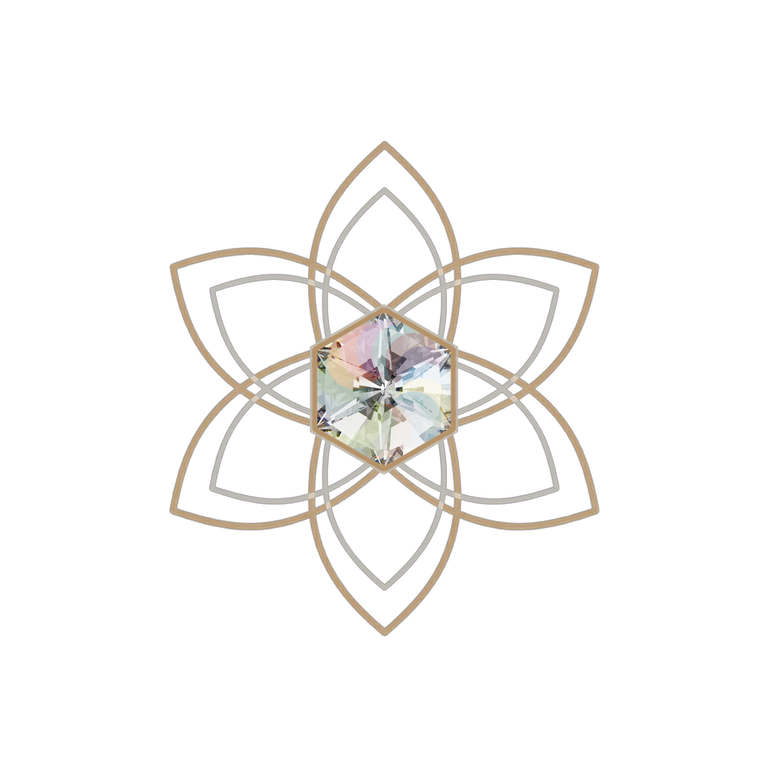
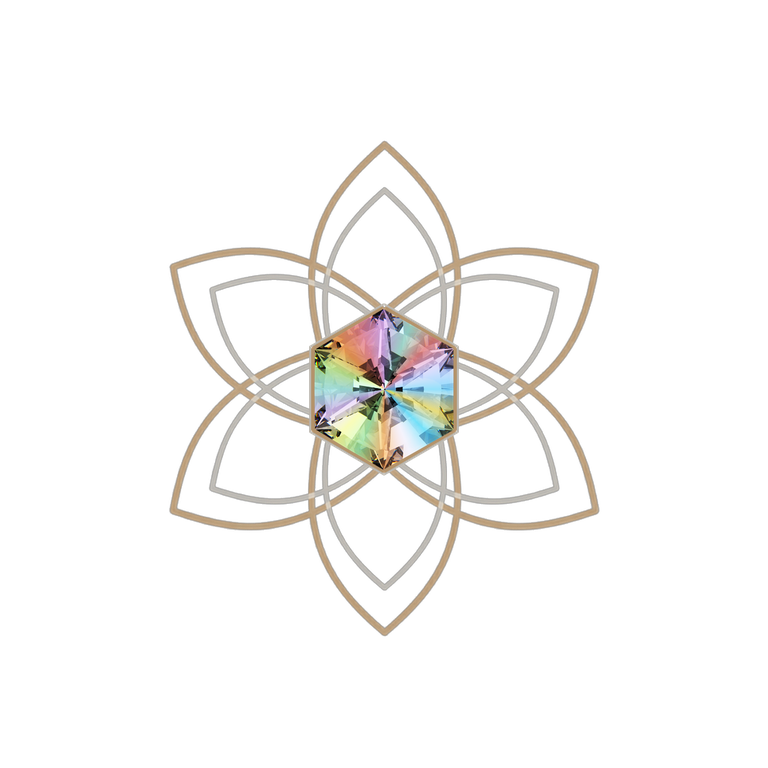
Gem fix

Changed region(s): [[0.4062, 0.4062, 0.5938, 0.625]]

diff --git a/src/app/components/SpectralGem.tsx b/src/app/components/SpectralGem.tsx
@@ -1,7 +1,8 @@
 import { useEffect, useRef } from 'react';
 import { useFadeSwitch } from '../../lib/useFadeSwitch';
-import { allColors } from './ValarBreathingLogo';
-import { breathFractions, breathLengthMs, gemClock, gemMultiplyColor, type BreathTiming } from '../../lib/breathClock';
+import { allColors, valarColors } from './ValarBreathingLogo';
+import { orbColour } from '../../lib/orbColours';
+import { breathFractions, breathLengthMs, gemClock, gemMultiplyColor, hueOnly, type BreathTiming } from '../../lib/breathClock';
 import { GEM_CENTRE, GEM_HEX_RADIUS, GEM_TO_PETALS, SPRITE_CELL, frameOrigin, loadGemSprite } from '../../lib/gemSprite';
 
 interface SpectralGemProps {
@@ -23,11 +24,18 @@ interface SpectralGemProps {
 // A double bezel around the edge of the stone: a gold line (the darker of the petals' two colours, and their
 // thickness) sitting half on the stone and half off it, with a thinner cream line (the lighter petal colour) just
 // outside it.
-const BEZEL_WIDTH = 0.03; // of the frame's side (the petals' line is about 2.8% of the same span)
+const BEZEL_WIDTH = 0.04; // (half of it sits behind the stone)
+// of the frame's side (the petals' line is about 2.8% of the same span)
 const BEZEL_COLOR = '#fcce96';
 const BEZEL_OUTER_WIDTH = 0.012;
 const BEZEL_OUTER_COLOR = '#fff9ee';
 const BEZEL_GAP = 0.004; // between the two lines
+
+// The stone's own colour: the colours of the 16 inner orbs, laid round it like a colour wheel that turns once every
+// two minutes (as the orbit does) and changes as the orbs' colours change. The stone is nearly opaque, so its colour
+// comes from this and not from the orbs showing through it.
+const FIELD_STRENGTH = 0.75; // 0 = no colour, 1 = the orbs' full hue
+const FIELD_TURN_S = 120;
 
 const FRAME_INTERVAL_MS = 1000 / 30; // the sparkle moves ~1.6 frames a second; 30 draws a second is plenty smooth
 
@@ -40,7 +48,7 @@ export default function SpectralGem({
   size,
   cycleStart,
   technique = null,
-  clarity = 0.72, // was 0.65: a little clearer, so more of the orbit's colour shows through the back
+  clarity = 0.12, // nearly opaque: the colour is made inside the stone, not seen through it
   sparkle = 0.8, // was 1
   tint = 0.2,
   breathingEnabled = true,
@@ -141,6 +149,20 @@ export default function SpectralGem({
       bctx.clearRect(0, 0, px, px);
       bctx.drawImage(off, 0, 0);
       bctx.globalCompositeOperation = 'multiply';
+      // The stone's inner colour: a wheel of the orbs' current colours.
+      if (typeof bctx.createConicGradient === 'function') {
+        const tSec = reduced ? 0 : (Date.now() - mountTime.current) / 1000;
+        const wheel = bctx.createConicGradient(reduced ? 0 : ((tSec / FIELD_TURN_S) % 1) * 2 * Math.PI, px / 2, px / 2);
+        const n = valarColors.length;
+        for (let i = 0; i <= n; i++) {
+          const j = i % n;
+          const h = hueOnly(orbColour(valarColors[j].vector, j, tSec));
+          const c = h.map((v) => Math.round(255 + (v - 255) * FIELD_STRENGTH));
+          wheel.addColorStop(i / n, `rgb(${c[0]},${c[1]},${c[2]})`);
+        }
+        bctx.fillStyle = wheel;
+        bctx.fillRect(0, 0, px, px);
+      }
       bctx.fillStyle = `rgb(${Math.round(r)},${Math.round(g)},${Math.round(b)})`;
       bctx.fillRect(0, 0, px, px);
       bctx.globalCompositeOperation = 'destination-in'; // restore the stone's transparent outline
@@ -225,7 +247,7 @@ export default function SpectralGem({
     <>
       <canvas ref={bodyRef} aria-hidden="true" style={{ ...place, zIndex: 30, opacity: (1 - clarity) * (fadeStyle.opacity as number), transition: fadeStyle.transition }} />
       <canvas ref={lightRef} aria-hidden="true" style={{ ...place, zIndex: 31, mixBlendMode: 'overlay', opacity: sparkle * (fadeStyle.opacity as number), transition: fadeStyle.transition }} />
-      <canvas ref={bezelRef} aria-hidden="true" style={{ ...place, zIndex: 32 }} />
+      <canvas ref={bezelRef} aria-hidden="true" style={{ ...place, zIndex: 29 }} />
     </>
   );
 }

diff --git a/src/lib/orbColours.ts b/src/lib/orbColours.ts
@@ -1,0 +1,20 @@
+// The colour of one of the inner orbit's orbs at a given moment, reproduced from how the orbs animate in NenyaLogo:
+// each orb eases through its six colours over 30 seconds, one every 5 seconds, and starts 2 seconds after the one
+// before it. The gem uses these to colour its own light, so its shimmer comes from inside the stone.
+import { hexToRgb } from './breathClock.ts';
+
+export const COLOR_CYCLE_S = 30;
+export const ORB_DELAY_S = 2;
+
+const easeInOut = (t: number) => (t < 0.5 ? 2 * t * t : 1 - Math.pow(-2 * t + 2, 2) / 2);
+
+export function orbColour(vector: string[], index: number, tSec: number): [number, number, number] {
+  const n = vector.length;
+  const seg = COLOR_CYCLE_S / n;
+  const t = (((tSec - index * ORB_DELAY_S) % COLOR_CYCLE_S) + COLOR_CYCLE_S) % COLOR_CYCLE_S;
+  const k = Math.floor(t / seg) % n;
+  const f = easeInOut((t - k * seg) / seg);
+  const a = hexToRgb(vector[k]);
+  const b = hexToRgb(vector[(k + 1) % n]);
+  return [a[0] + (b[0] - a[0]) * f, a[1] + (b[1] - a[1]) * f, a[2] + (b[2] - a[2]) * f];
+}
